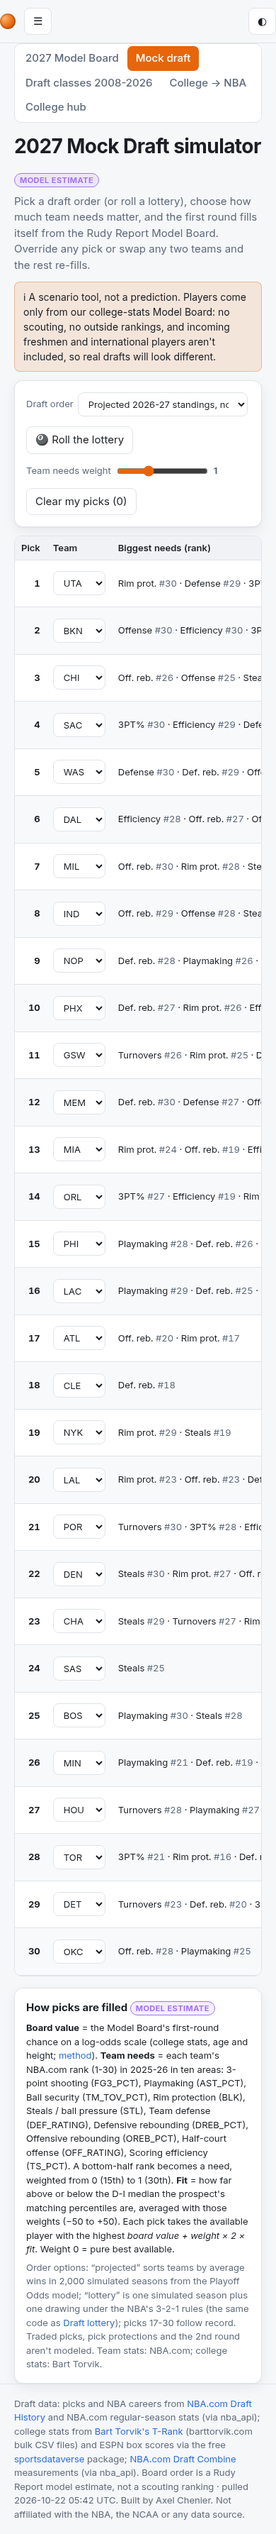
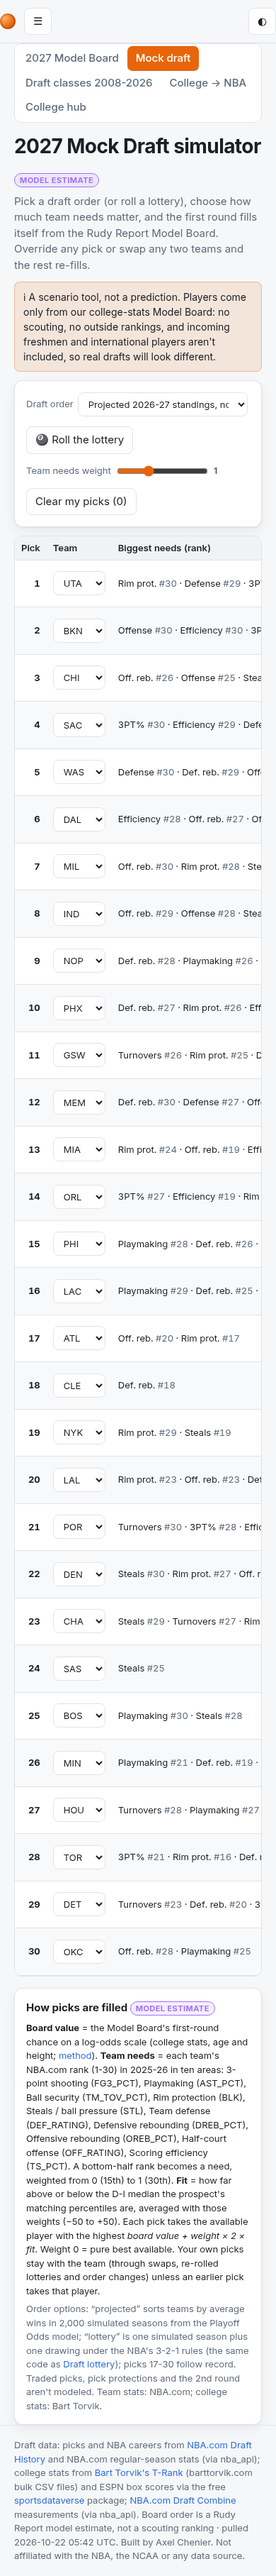
Mock draft: user picks are keyed by team, so they follow the team through swaps, lottery re-rolls and order changes

Changed region(s): [[0.0615, 0.0, 0.9538, 0.9944], [0.3385, 0.2797, 0.3692, 0.5594], [0.8923, 0.5904, 0.9231, 0.6526]]

diff --git a/js/pages/draft_mock.js b/js/pages/draft_mock.js
@@ -53,6 +53,7 @@ export function fitScore(p, needs) {
   return wsum ? s / wsum : 0;          // -0.5 .. +0.5
 }
 
+// overrides: { TEAM_ID: prospect pid }. Keyed by team, so a user's pick follows the team through swaps, re-rolled lotteries and order changes.
 const state = { source: "projected", order: null, overrides: {}, needW: 1, seed: 1 };
 
 export async function draftMockPage(app) {
@@ -83,7 +84,7 @@ export async function draftMockPage(app) {
     return ids;
   };
   const setSource = (src) => {
-    state.source = src; state.overrides = {};
+    state.source = src;
     state.order = src === "lottery" ? lotteryOrder(state.seed) : src === "last" ? lastSeasonOrder() : projectedOrder();
   };
   if (!state.order) setSource(state.source);
@@ -94,8 +95,8 @@ export async function draftMockPage(app) {
     state.order.forEach((tid, k) => {
       const nd = needs.get(tid)?.needs || [];
       const score = (p) => logit(p.p_first) + state.needW * 2 * fitScore(p, nd);
-      let pid = state.overrides[k + 1];
-      if (pid && taken.has(pid)) { delete state.overrides[k + 1]; pid = null; }
+      let pid = state.overrides[tid];
+      if (pid && taken.has(pid)) { delete state.overrides[tid]; pid = null; }   // an earlier pick already took him
       const avail = P.filter((p) => !taken.has(p.pid)).map((p) => ({ p, s: score(p), fit: fitScore(p, nd) })).sort((a, c) => c.s - a.s);
       const choice = pid ? avail.find((x) => x.p.pid === pid) : avail[0];
       taken.add(choice.p.pid);
@@ -114,7 +115,7 @@ export async function draftMockPage(app) {
         <td><b>${x.pick}</b></td>
         <td class="left"><select class="mk-team" data-k="${x.pick - 1}" aria-label="Team at pick ${x.pick}">${teamOpts(x.tid)}</select></td>
         <td class="left small">${x.top.length ? x.top.map((n) => `<span title="${esc(n.label)}: NBA.com ${esc(n.stat)} = ${num(n.value, n.value < 2 ? 3 : 1)}, #${n.rank} of 30">${esc(SHORT[n.stat])} <span class="muted">#${n.rank}</span></span>`).join(" · ") : `<span class="muted">No bottom-half area</span>`}</td>
-        <td class="left"><select class="mk-pick" data-pick="${x.pick}" aria-label="Player at pick ${x.pick}">
+        <td class="left"><select class="mk-pick" data-tid="${x.tid}" aria-label="Player at pick ${x.pick}">
           <option value="">${x.manual ? "↺ Back to auto" : "Auto"}: ${esc(x.avail[0].p.player)}</option>
           ${x.avail.map((a) => `<option value="${a.p.pid}" ${x.manual && a.p.pid === p.pid ? "selected" : ""}>${esc(a.p.player)} (#${a.p.rank}, fit ${a.fit >= 0 ? "+" : ""}${Math.round(a.fit * 100)})</option>`).join("")}
           ${x.manual && !x.avail.some((a) => a.p.pid === p.pid) ? `<option value="${p.pid}" selected>${esc(p.player)}</option>` : ""}</select>
@@ -122,8 +123,8 @@ export async function draftMockPage(app) {
         <td>${p.rank}</td><td>${x.choice.fit >= 0 ? "+" : ""}${Math.round(x.choice.fit * 100)}</td><td>${chance(p.p_first)}</td>
         <td class="left small">${num(p.pts)} / ${num(p.reb)} / ${num(p.ast)} · BPM ${num(p.bpm)} · TS ${p.ts == null ? "–" : (p.ts * 100).toFixed(1)}%</td></tr>`; }).join("")}</tbody></table></div>`;
     app.querySelectorAll(".mk-pick").forEach((s) => s.addEventListener("change", () => {
-      const k = +s.dataset.pick;
-      if (s.value) state.overrides[k] = +s.value; else delete state.overrides[k];
+      const tid = +s.dataset.tid;
+      if (s.value) state.overrides[tid] = +s.value; else delete state.overrides[tid];
       draw_();
     }));
     app.querySelectorAll(".mk-team").forEach((s) => s.addEventListener("change", () => {
@@ -153,7 +154,7 @@ export async function draftMockPage(app) {
       <p class="small"><b>Board value</b> = the Model Board's first-round chance on a log-odds scale (college stats, age and height; <a href="#/draft">method</a>).
         <b>Team needs</b> = each team's NBA.com rank (1-30) in ${esc(ranksSeason)} in ten areas: ${NEEDS.map(([l, s]) => `${esc(l)} (${esc(s)})`).join(", ")}.
         A bottom-half rank becomes a need, weighted from 0 (15th) to 1 (30th). <b>Fit</b> = how far above or below the D-I median the prospect's matching percentiles are, averaged with those weights (−50 to +50).
-        Each pick takes the available player with the highest <i>board value + weight × 2 × fit</i>. Weight 0 = pure best available.</p>
+        Each pick takes the available player with the highest <i>board value + weight × 2 × fit</i>. Weight 0 = pure best available. Your own picks stay with the team (through swaps, re-rolled lotteries and order changes) unless an earlier pick takes that player.</p>
       <p class="small muted">Order options: “projected” sorts teams by average wins in 2,000 simulated seasons from the Playoff Odds model; “lottery” is one simulated season plus one drawing under the NBA's 3-2-1 rules (the same code as <a href="#/tools/lottery">Draft lottery</a>);
         picks 17-30 follow record. Traded picks, pick protections and the 2nd round aren't modeled. Team stats: NBA.com; college stats: Bart Torvik.</p></div>`;
   app.querySelector("#mk-src").addEventListener("change", (e) => { if (e.target.value !== "custom") setSource(e.target.value); else state.source = "custom"; draw_(); });

diff --git a/README.md b/README.md
@@ -259,7 +259,7 @@ or College → NBA page.
 first round fills from the Model Board. Team needs = bottom-half NBA.com team-stat ranks (last complete season) in ten areas
 (3P%, assist %, turnover %, blocks, steals, defensive/offensive rating, DREB%/OREB%, TS%); fit = the prospect's D-I percentiles
 in those areas (new `pct` field on each board row from `college_draft.py`). Each pick = best *board log-odds + weight × 2 × fit*;
-any pick can be overridden and later picks re-fill. Not modeled: traded picks, protections, the 2nd round, players not on the board
+any pick can be overridden (the choice follows the team through swaps and new lottery rolls) and later picks re-fill. Not modeled: traded picks, protections, the 2nd round, players not on the board
 (incoming freshmen, internationals).
 
 **College team and player pages, history extras** (`js/pages/college_extras.js`): team pages end with *Program history*:
